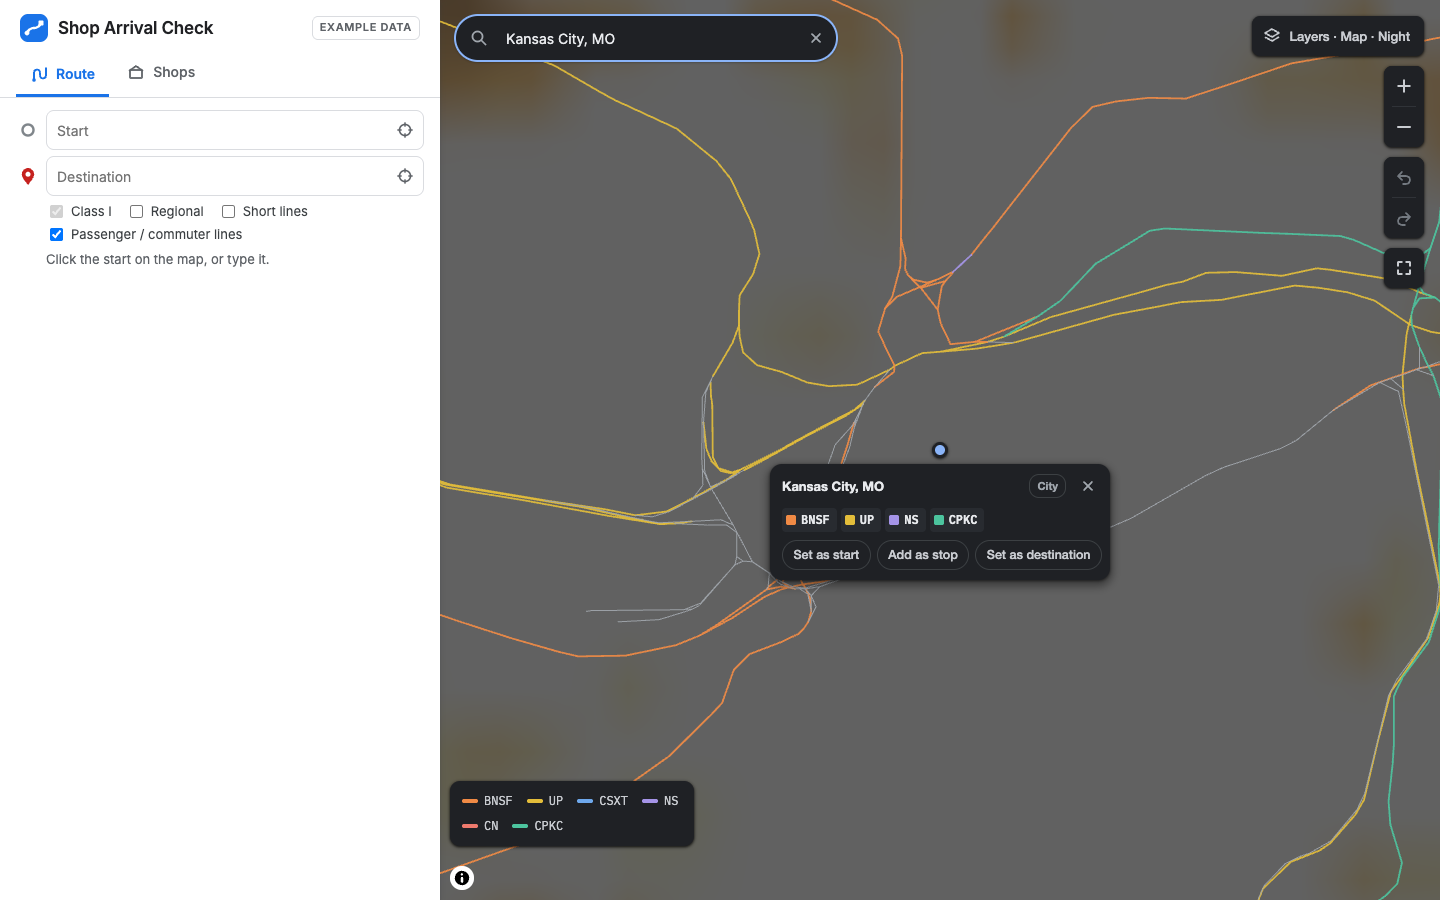
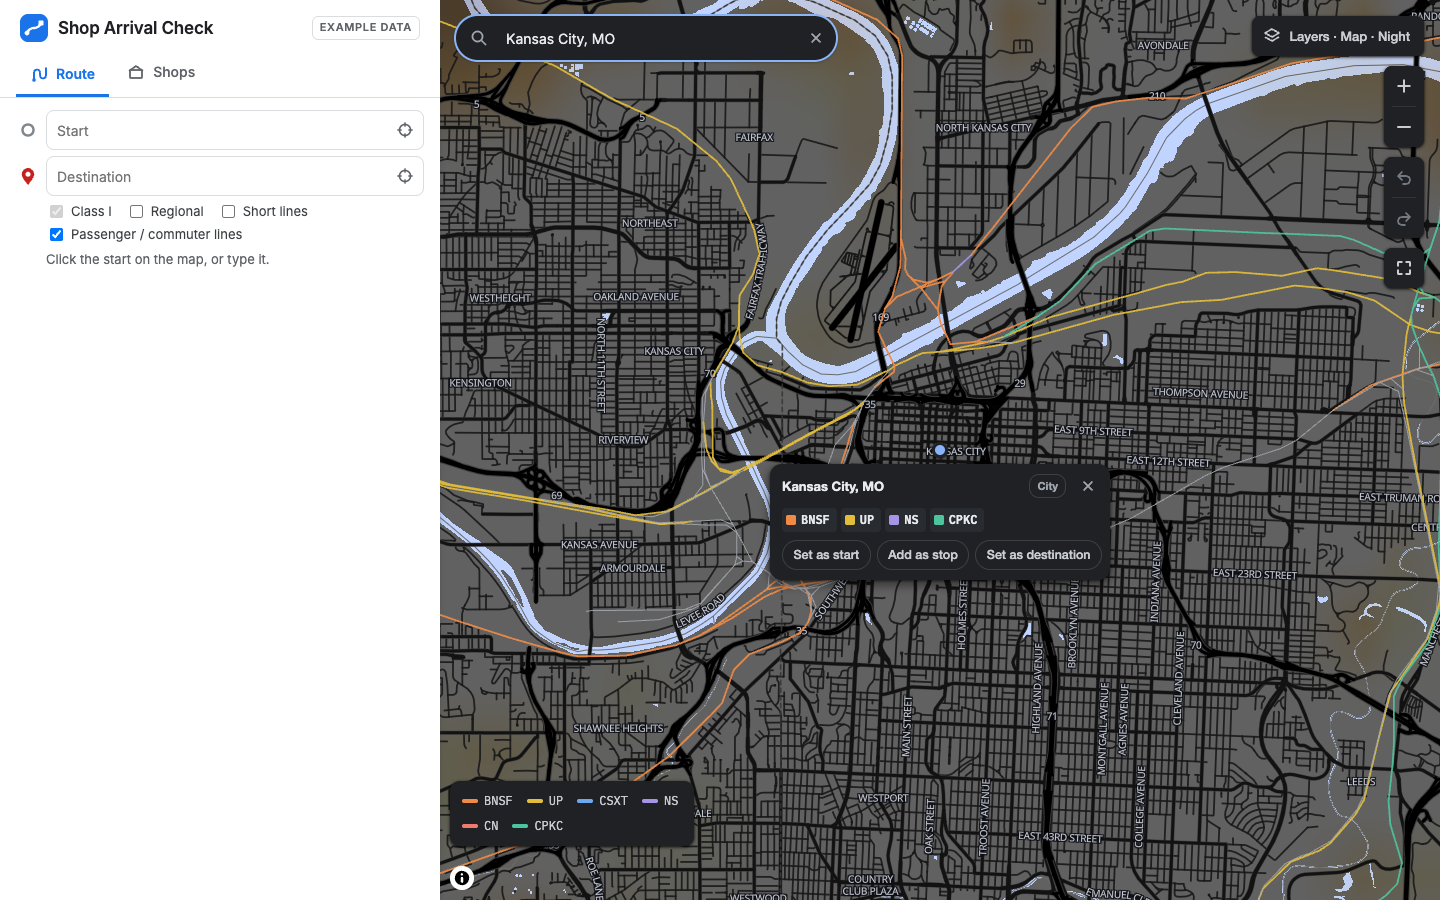
fix:11:r1: Old and unknown links now fix the address bar, not just the page. Before, /cars, /cars/new
Old and unknown links now fix the address bar, not just the page. Before, /cars, /cars/new and /batch showed the planner but the address stayed on the old path. /shops/does-not-exist showed the plain list and its address also stayed unchanged.

1. web/app/routes.ts: `useScreen()` now runs `useEffect(() => go(screen, { replace: true }), [screen])`. Any path that does not parse to a screen exactly is replaced with that screen's own address, so /cars, /batch and / become /route. Because it uses `replace`, no extra Back step is added. `go()` does nothing when the address is already correct, so the effect runs only once per bad link.
2. web/screens/shops/ShopsScreen.tsx: once the shop list has loaded and is up to date (ready and not stale), a link to a shop id that is not in the list is replaced with /shops. This works like the existing unknown-saved-route case in RouteWorkspace.tsx.

Side effect: the address is now always the exact form of the screen. For example, an unknown view setting such as ?option=fastest is removed from the address, matching what parseLocation already ignored.

diff --git a/web/app/routes.ts b/web/app/routes.ts
@@ -9,7 +9,7 @@
  *
  * Places are never in a URL: only ids and view choices.
  */
-import { useSyncExternalStore } from "react";
+import { useEffect, useSyncExternalStore } from "react";
 import type { ShopId } from "../../shared/places.ts";
 import type { SavedRouteId } from "../../shared/plans.ts";
 import { ROUTE_STRATEGIES, type RouteStrategy } from "../../shared/route.ts";
@@ -93,7 +93,10 @@ function currentScreen(): Screen {
 
 /** The current screen; re-renders on navigation (history.pushState / popstate through useSyncExternalStore). */
 export function useScreen(): Screen {
-  return useSyncExternalStore(subscribe, currentScreen, () => HOME);
+  const screen = useSyncExternalStore(subscribe, currentScreen, () => HOME);
+  // An unknown or retired link (/cars, /batch) shows HOME, so the address bar names HOME too.
+  useEffect(() => go(screen, { replace: true }), [screen]);
+  return screen;
 }
 
 /** `replace` for view choices that should not add a Back step (picking an alternative). */

diff --git a/web/screens/route/RouteScreen.test.tsx b/web/screens/route/RouteScreen.test.tsx
@@ -250,6 +250,15 @@ describe("Route planner", () => {
     expect(screen.queryByRole("list", { name: "Stops" })).not.toBeInTheDocument();
   });
 
+  it("an old or unknown link (/cars, /batch) opens the planner and the address bar says /route", async () => {
+    for (const path of ["/cars", "/cars/new", "/batch", "/nowhere"]) {
+      const page = openPage(path);
+      expect(field("Start")).toHaveValue("");
+      await waitFor(() => expect(currentPath(), path).toBe("/route"));
+      page.unmount();
+    }
+  });
+
   it("the panel says no time, date or verdict anywhere", async () => {
     const user = userEvent.setup();
     await planTempleToLittleRock(user);

diff --git a/web/screens/shops/ShopsScreen.tsx b/web/screens/shops/ShopsScreen.tsx
@@ -24,6 +24,13 @@ export function ShopsScreen({ screen }: { screen: Extract<Screen, { name: "shops
     setMissed(false);
   }, [screen.edit]);
 
+  // A link to a shop that is gone (deleted, or never there) opens the list, and the address says so.
+  const unknownShop =
+    shops.status === "ready" && !shops.stale && screen.edit !== null && screen.edit !== "new" && !shops.data.some((shop) => shop.id === screen.edit);
+  useEffect(() => {
+    if (unknownShop) go({ name: "shops", edit: null }, { replace: true });
+  }, [unknownShop]);
+
   useEffect(() => {
     if (!picking) return;
     const onKey = (event: KeyboardEvent) => {

diff --git a/web/screens/shops/ShopsScreen.test.tsx b/web/screens/shops/ShopsScreen.test.tsx
@@ -166,6 +166,12 @@ describe("Shops screen", () => {
     }
   });
 
+  it("a link to a shop that is not in the list opens the list at /shops", async () => {
+    openPage("/shops/does-not-exist");
+    expect(await screen.findByText("EX-NLR-01")).toBeInTheDocument();
+    await waitFor(() => expect(currentPath()).toBe("/shops"));
+  });
+
   it("the import preview lists the rows that will not be saved, with why; then saves the rest", async () => {
     const user = userEvent.setup();
     openPage("/shops");
